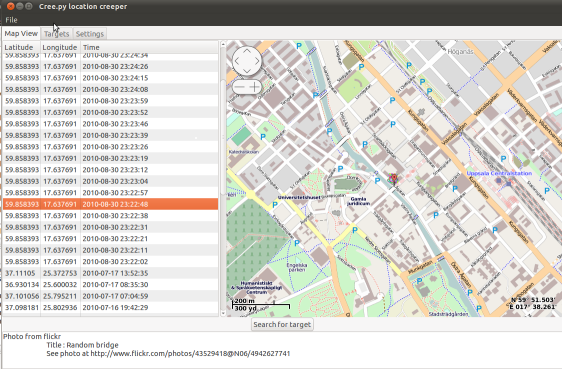
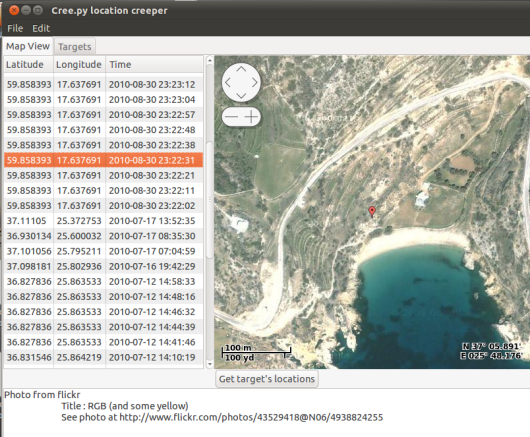
added new features and changed images

diff --git a/index.html b/index.html
@@ -63,7 +63,13 @@
 
 <h2>Features</h2>
 <br/>
-
+Map providers available :
+<ul>
+<li>Google Maps</li>
+<li>Virtual Maps</li>
+<li>Open Street Maps</li>
+</ul>
+</br>
 Location information retieval from :
 <ul><li>Twitter's tweet location</li>
 <ul> 
